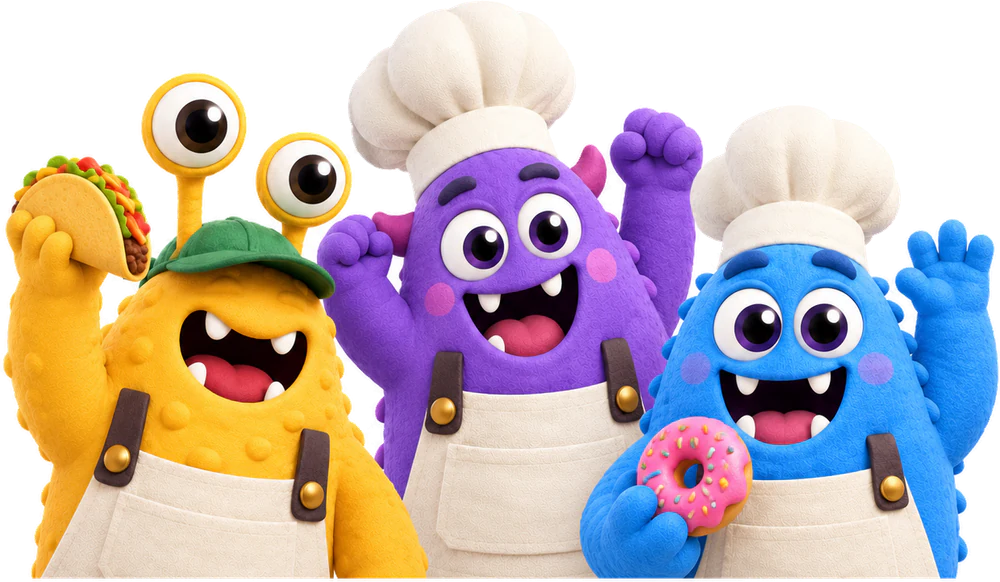
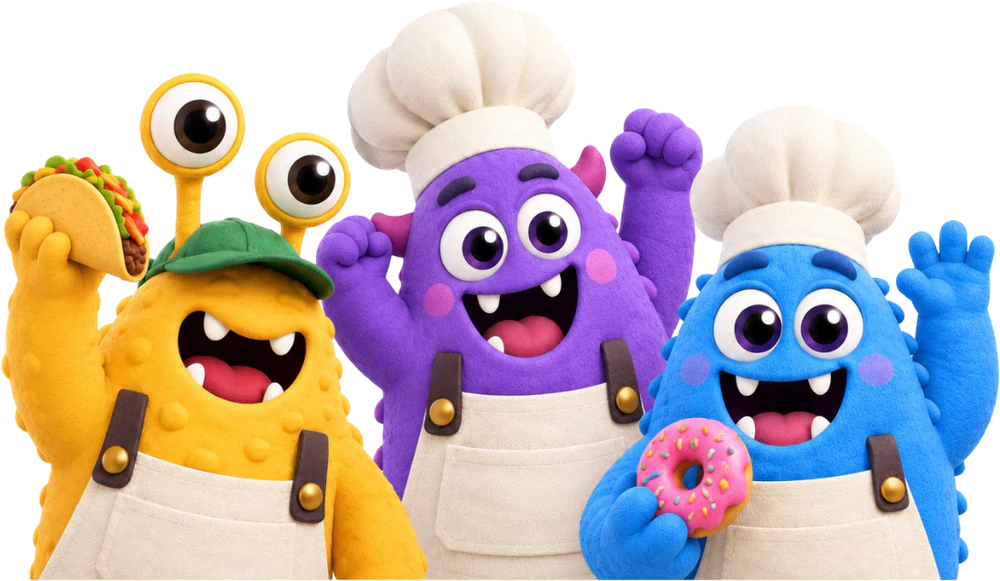
Add files via upload

diff --git a/index.html b/index.html
@@ -13,7 +13,7 @@
 <link rel="preconnect" href="https://fonts.googleapis.com">
 <link rel="preconnect" href="https://fonts.gstatic.com" crossorigin>
 <link rel="stylesheet" href="https://fonts.googleapis.com/css2?family=Fredoka:wght@500;600&family=Geist:wght@400;500;600&display=swap">
-<link rel="stylesheet" href="site.css?v=4">
+<link rel="stylesheet" href="site.css?v=5">
 </head>
 <body>
 <a class="skip" href="#main">Skip to content</a>
@@ -177,7 +177,7 @@
             <a class="btn btn-primary" href="mailto:cravely.support@gmail.com?subject=I%20want%20to%20test%20Cravely&amp;body=Hi%2C%20I'd%20like%20to%20test%20Cravely%20on%20Android.%20My%20Google%20account%20email%20is%3A%20">Become a tester</a>
           </div>
         </div>
-        <img class="join-crowd" src="art/trio.webp" width="1000" height="582" alt="" aria-hidden="true" loading="lazy">
+        <img class="join-crowd" src="art/trio.webp" width="1000" height="581" alt="" aria-hidden="true" loading="lazy">
       </div>
     </div>
   </div>
